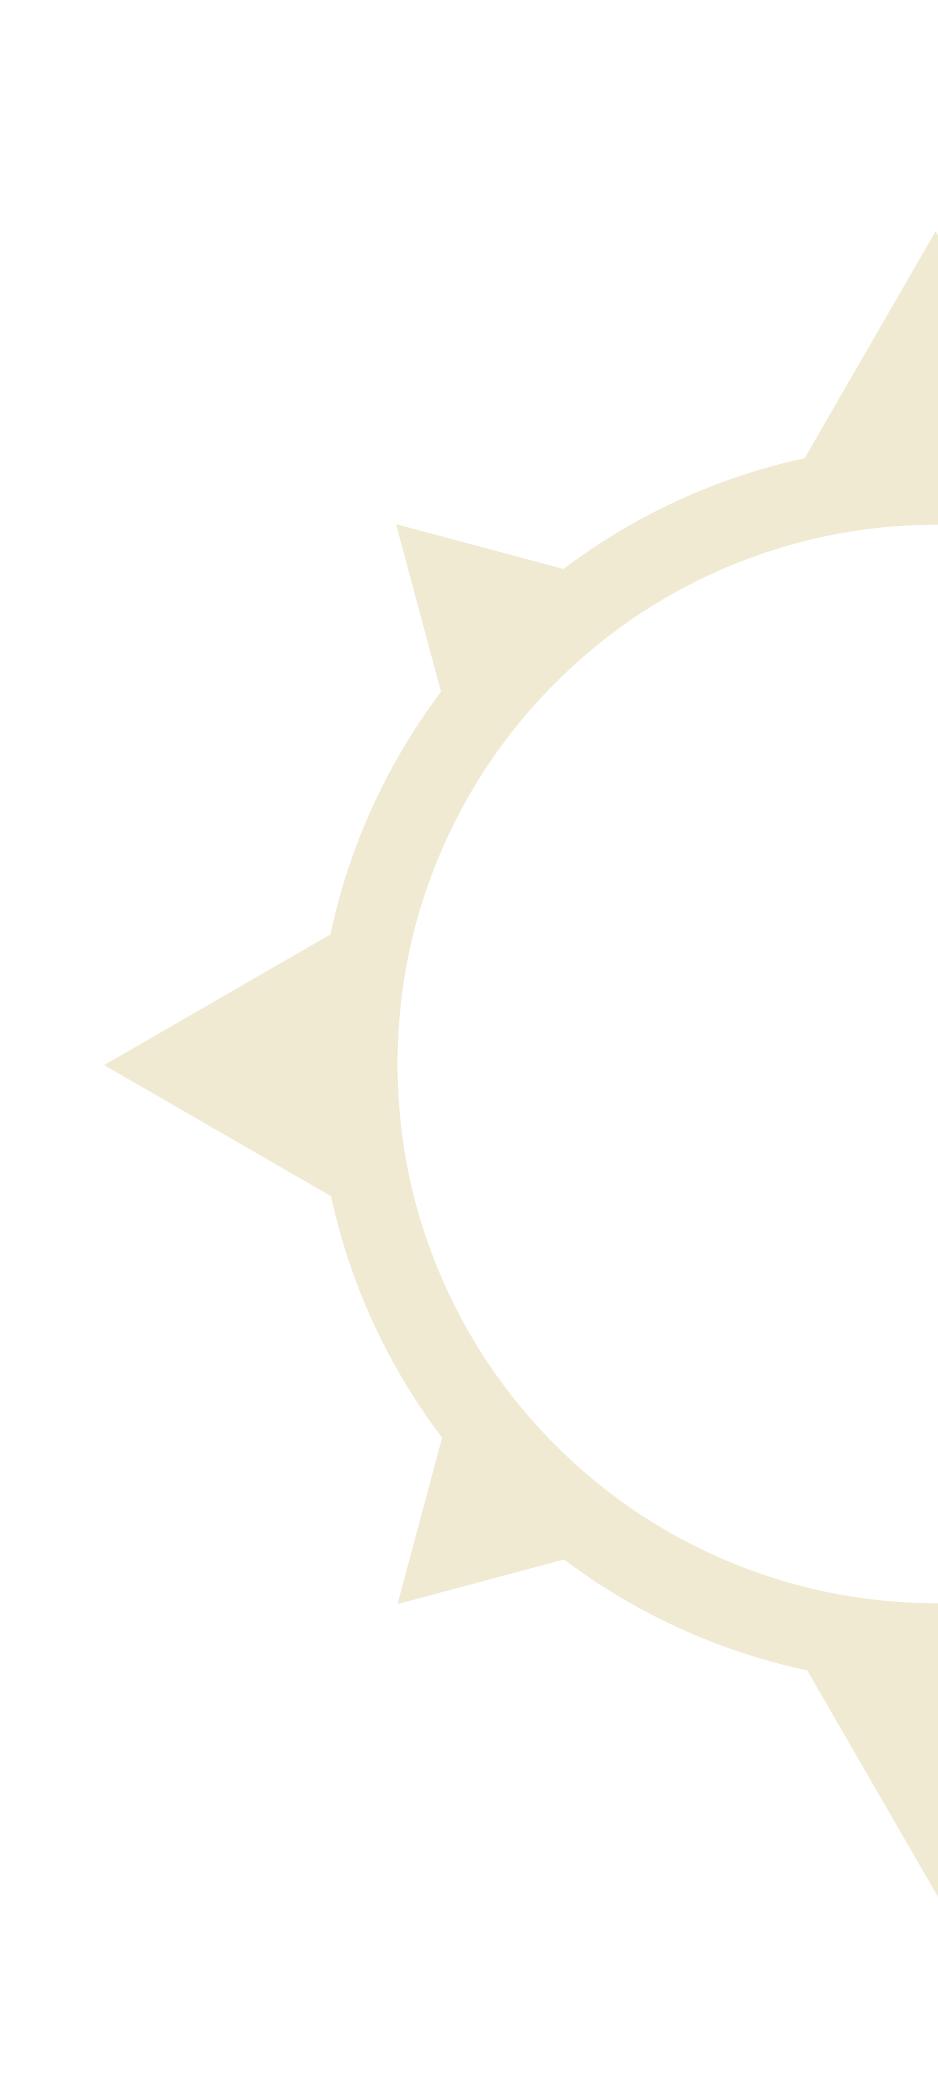
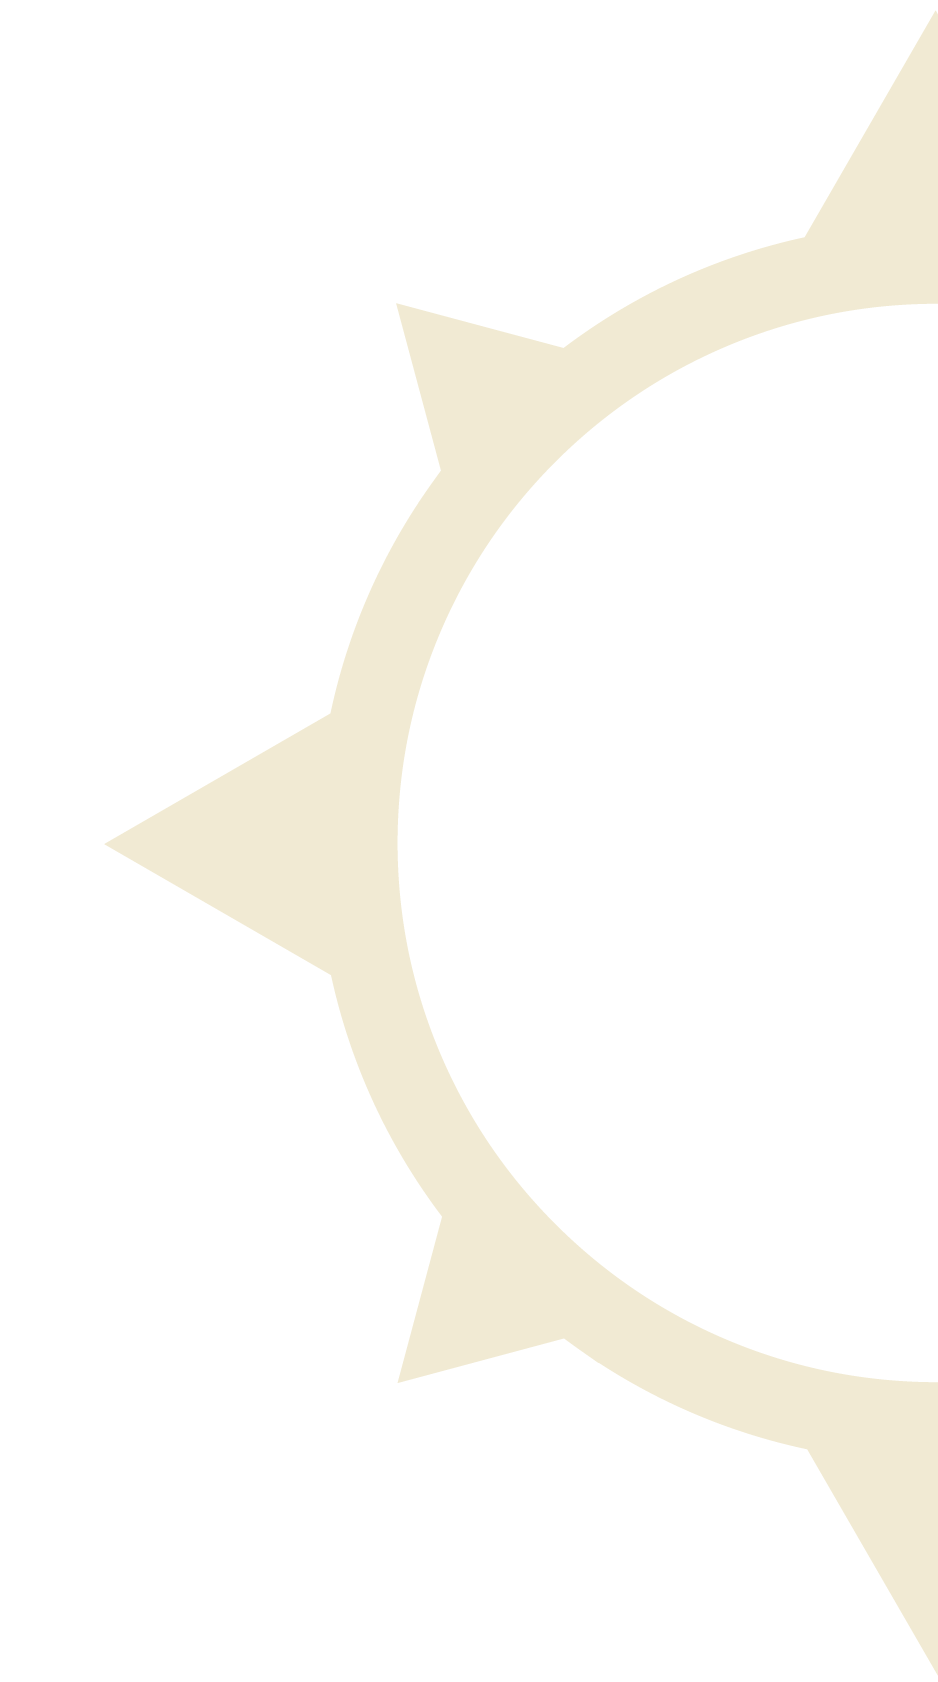
feature: added new section Feedbacks, fixed water mark.

diff --git a/src/components/main/sections/Feedbacks.tsx b/src/components/main/sections/Feedbacks.tsx
@@ -1,0 +1,87 @@
+'use client';
+
+import Image from 'next/image';
+import SectionLayout from '@/ui/SectionLayout';
+
+export default function Feedbacks() {
+    const testimonials = [
+        {
+            id: 1,
+            text: 'A Freitas agradece à RV Tributos pela parceria e pelo excelente trabalho de consultoria e recuperação tributária realizado ao longo dos últimos anos. A atuação técnica e dedicada da equipe contribuiu de forma significativa para a otimização fiscal e o fortalecimento da gestão tributária da nossa empresa.',
+            author: 'Marlene Freitas',
+            position: 'VP Operações Freitas Comex',
+            logo: '/freitas-logo.png'
+        },
+        {
+            id: 2,
+            text: 'A Freitas agradece à RV Tributos pela parceria e pelo excelente trabalho de consultoria e recuperação tributária realizado ao longo dos últimos anos. A atuação técnica e dedicada da equipe contribuiu de forma significativa para a otimização fiscal e o fortalecimento da gestão tributária da nossa empresa.',
+            author: 'Marlene Freitas',
+            position: 'VP Operações Freitas Comex',
+            logo: '/freitas-logo.png'
+        },
+        {
+            id: 3,
+            text: 'A Freitas agradece à RV Tributos pela parceria e pelo excelente trabalho de consultoria e recuperação tributária realizado ao longo dos últimos anos. A atuação técnica e dedicada da equipe contribuiu de forma significativa para a otimização fiscal e o fortalecimento da gestão tributária da nossa empresa.',
+            author: 'Marlene Freitas',
+            position: 'VP Operações Freitas Comex',
+            logo: '/freitas-logo.png'
+        }
+    ];
+
+    return (
+        <SectionLayout>
+            <SectionLayout.Header>
+                <SectionLayout.Title>
+                    Feedbacks
+                </SectionLayout.Title>
+
+                <SectionLayout.Subtitle>
+                    dos nossos clientes
+                </SectionLayout.Subtitle>
+
+                <SectionLayout.GradientLine />
+            </SectionLayout.Header>
+
+            <SectionLayout.Content className="flex flex-col gap-6">
+                {testimonials.map((testimonial) => (
+                    <div
+                        key={testimonial.id}
+                        className="relative bg-rv-white rounded-2xl shadow-lg pl-6 py-2 flex"
+                    >
+                        {/* Logo da empresa */}
+                        <div className="shrink-0">
+                            <div className="w-20 h-20 rounded-full overflow-hidden relative">
+                                <Image
+                                    src={testimonial.logo}
+                                    alt={testimonial.author}
+                                    fill
+                                    className="object-contain"
+                                />
+                            </div>
+                        </div>
+
+                        {/* Conteúdo do depoimento */}
+                        <div className="pl-6">
+                            {/* Aspas decorativas */}
+                            <div className="text-rv-yellow font-bold text-6xl leading-none h-8 flex items-start mb-2" style={{ lineHeight: '1' }}>
+                                “
+                            </div>
+
+                            {/* Texto do depoimento */}
+                            <p className="text-rv-green font-display text-[clamp(0.75rem,3vw,0.875rem)] leading-relaxed mb-4 italic">
+                                {testimonial.text}
+                            </p>
+
+                            {/* Autor */}
+                            <div className="">
+                                <p className="text-rv-green font-display text-[clamp(0.875rem,3.5vw,1rem)] font-bold">
+                                    {testimonial.author} - {testimonial.position}
+                                </p>
+                            </div>
+                        </div>
+                    </div>
+                ))}
+            </SectionLayout.Content>
+        </SectionLayout>
+    );
+}

diff --git a/src/ui/SectionLayout.tsx b/src/ui/SectionLayout.tsx
@@ -35,7 +35,7 @@ export default function SectionLayout({
     showWatermark = true
 }: SectionProps) {
     return (
-        <section className={`relative w-full py-12 bg-rv-white overflow-hidden ${className}`}>
+        <section className={`relative w-full mt-1 py-12 bg-rv-white overflow-hidden ${className}`}>
             {/* Marca d'água - Background */}
             {showWatermark && (
                 <div className={`absolute inset-0 pointer-events-none `}>
@@ -43,7 +43,7 @@ export default function SectionLayout({
                         src="/marca-agua.png"
                         alt=""
                         fill
-                        className="object-cover object-center"
+                        className="object-contain object-right"
                     />
                 </div>
             )}

diff --git a/src/app/globals.css b/src/app/globals.css
@@ -18,9 +18,9 @@
   --breakpoint-lg: 1024px;  /* Desktop */
   --breakpoint-xl: 1280px;  /* Desktop grande */
   
-  /* Header Height & Hero Height */
+  /* Header Height & Section Height */
   --header-height: 4rem;     /* 64px */
-  --hero-height: calc(100vh - var(--header-height));
+  --section-height: calc(100vh - var(--header-height));
 }
 
 /* Base styles - Mobile First */
@@ -42,9 +42,9 @@ p {
   height: var(--header-height);
 }
 
-/* Hero height utility */
-.h-hero {
-  height: var(--hero-height);
+/* Section height utility */
+.h-section {
+  height: var(--section-height);
 }
 
 /* Container customizado (opcional) */

diff --git a/src/app/page.tsx b/src/app/page.tsx
@@ -3,6 +3,7 @@ import HeaderRender from "@/components/header/HeaderRender";
 import HeroMobile from "@/components/main/hero/Hero";
 import Contact from "@/components/main/sections/Contact";
 import Expertises from "@/components/main/sections/Expertises";
+import Feedbacks from "@/components/main/sections/Feedbacks";
 
 export default function Home() {
   return (
@@ -10,6 +11,7 @@ export default function Home() {
     <HeaderRender/>
     <HeroMobile/>
     <Expertises/>
+    <Feedbacks/>
     <Contact/>
     <Footer/>
   </>

diff --git a/src/components/main/hero/Hero.tsx b/src/components/main/hero/Hero.tsx
@@ -5,7 +5,7 @@ import Link from 'next/link';
 
 export default function HeroMobile() {
     return (
-        <section className="relative h-hero w-full overflow-hidden mt-(--header-height)">
+        <section className="relative h-section w-full overflow-hidden mt-(--header-height)">
             {/* Background - Base para absolute positioning */}
             <div className="relative h-full w-full">
                 <Image
